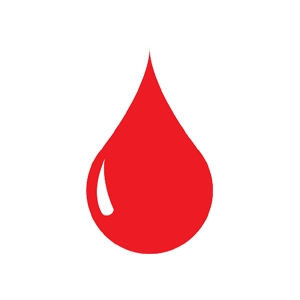
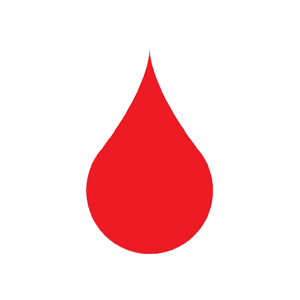
make design changes

Changed region(s): [[0.3, 0.54, 0.39, 0.72]]

diff --git a/src/modules/screens/bloodDonation/BloodDonersList.js b/src/modules/screens/bloodDonation/BloodDonersList.js
@@ -24,6 +24,7 @@ class BloodDonersList extends Component {
       let data = []
       let result = await bloodDonationList(data);
       if (result.success) {
+        console.log(result)
         let user = result.data.userList
         let doctor = result.data.doctorList
         user.concat(doctor);
@@ -37,7 +38,7 @@ class BloodDonersList extends Component {
   }
   getAddress(address) {
     if (address != undefined) {
-      return `${address.address.city || ''} , ${address.address.district || ''}`
+      return `${address.address.district || ''}`
     } else {
       return null
     }
@@ -92,8 +93,9 @@ class BloodDonersList extends Component {
       const { isloading, data} = this.state;
         return (
             <Container>
-            <Content style={{padding:8}}>
            
+             
+            <Content style={{padding:8}}>
             {isloading == true ? 
               <Spinner 
                 color="blue"
@@ -101,7 +103,7 @@ class BloodDonersList extends Component {
                 size={"large"}
                 overlayColor="none"
                 cancelable={false}/> : null } 
-             
+           
              { data.length == 0 ?
                 <View style={{alignItems:'center',justifyContent:'center',height:550}}>
                   <Text> No Blood Donors</Text>
@@ -118,18 +120,23 @@ class BloodDonersList extends Component {
                         <Card style={{padding:2,marginTop:5}}>      
                             <Row style={{borderBottomWidth:0,marginTop:5}}>
                               <Col size={2} style={{justifyContent:'center'}}>
-                                 <Image source={require("../../../../assets/images/Blooddrop.png")} style={{height:80,width:80,position:'relative'}}/>
-                                 <Text style={{fontFamily:'OpenSans',fontSize:15,position:'absolute',marginLeft:28,fontWeight:'bold',paddingTop:20,color:'#fff',width:'100%'}}>{this.getBloodGrp(item.blood_group)}</Text>
+                                 <Image source={require("../../../../assets/images/BloodDrop.png")} style={{height:95,width:95,position:'relative'}}/>
+                                 <Text style={{fontFamily:'OpenSans',fontSize:15,position:'absolute',fontWeight:'bold',paddingTop:20,color:'#fff',width:'100%',textAlign:'center',marginLeft:10}}>{this.getBloodGrp(item.blood_group)}</Text>
                               </Col>
-                              <Col size={7} style={{marginTop:15,marginLeft:10}}>
+                              <Col size={7} style={{marginTop:25,marginLeft:10}}>
                                   <Text style={{fontFamily:'OpenSans',fontSize:15}}>{this.getName(item)}</Text>
                               <Row>
-                                   <Icon name="ios-pin" style={{color:'#1D96F2',fontSize:15,marginTop:10}}/>
-                                   <Text style={{color:'gray',fontSize:13,fontFamily:'OpenSans',marginTop:10}}> {this.getAddress(item.address)}</Text>
+                                  <Col size={3}style={{flexDirection:'row'}}>
+                                  <Icon name="ios-pin" style={{color:'#1D96F2',fontSize:15,marginTop:10}}/>
+                                   <Text style={{color:'gray',fontSize:13,fontFamily:'OpenSans',marginTop:10,marginLeft:2}}> {this.getAddress(item.address)}</Text>
+                                   <View size={1}style={{borderLeftColor:'gray',borderLeftWidth:1,marginTop:10,marginBottom:15,marginLeft:10}}/>
+                                   <Icon name="ios-call" style={{color:'#1D96F2',fontSize:15,marginTop:12,marginLeft:10}}/>
+                                   <Text style={{color:'gray',fontSize:13,fontFamily:'OpenSans',marginTop:10,marginLeft:2}}> {this.getPhone(item.mobile_no)}</Text>
+                                  </Col> 
                               </Row>
                              </Col>
-                             <Col size={1} style={{borderLeftColor:'gray',borderLeftWidth:0.4,paddingLeft:10,justifyContent:'center',marginTop:8,marginBottom:8}}>
-                                <Icon name="ios-call" style={{color:'#08BF01',fontSize:35}}/>
+                             <Col size={1} style={{justifyContent:'center',}}>
+                                <Icon name="logo-whatsapp" style={{color:'#08BF01',fontSize:35}}/>
                              </Col>
                             </Row>
                           </Card>   

diff --git a/src/modules/screens/bloodDonation/BloodDonerFilters.js b/src/modules/screens/bloodDonation/BloodDonerFilters.js
@@ -447,11 +447,13 @@ class BloodDonerFilters extends Component {
                   </ListItem>
                 </List>
               </View>
-              <Footer style={{ backgroundColor: '#7E49C3', }}>
-                <TouchableOpacity onPress={()=>this.filteredTotalDataList1()} style={{justifyContent:'center'}}>
-                <Text style={styles.searchText}>Filter</Text>
-                  </TouchableOpacity>
+              <TouchableOpacity onPress={()=>this.filteredTotalDataList1()} style={{ backgroundColor: '#7E49C3'}}>
+              <Footer style={{ backgroundColor: '#7E49C3',justifyContent:'center',alignItems:'center' }}>
+                
+                <Text uppercase={true} style={styles.searchText}>search</Text>
+                 
               </Footer>
+              </TouchableOpacity>
           </Container>
         )
     }
@@ -477,7 +479,7 @@ const styles = StyleSheet.create({
     position:'absolute'
   },
   searchText:{
-    alignItems:'center',
+    textAlign:'center',
     fontFamily:'OpenSans',
     fontSize:20,
     fontWeight:'bold',
